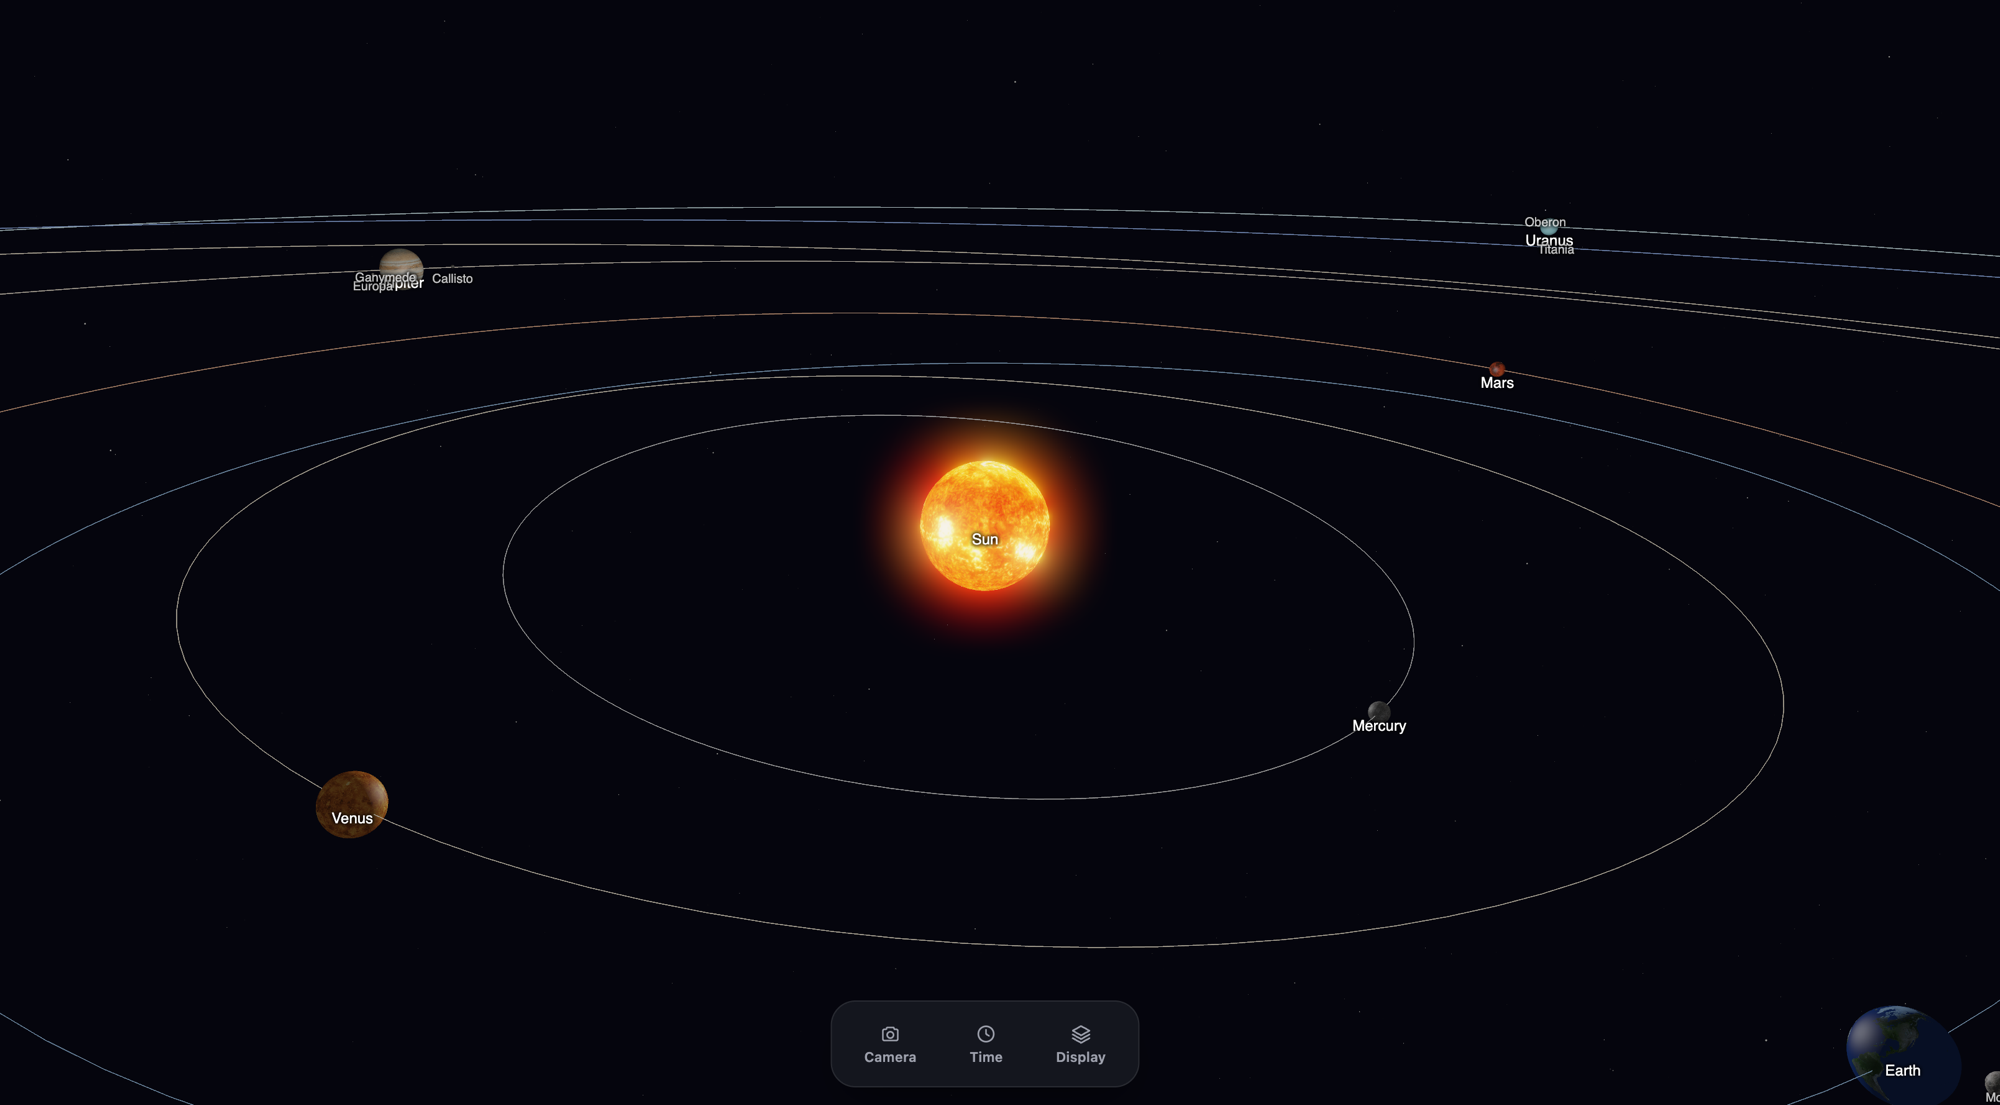
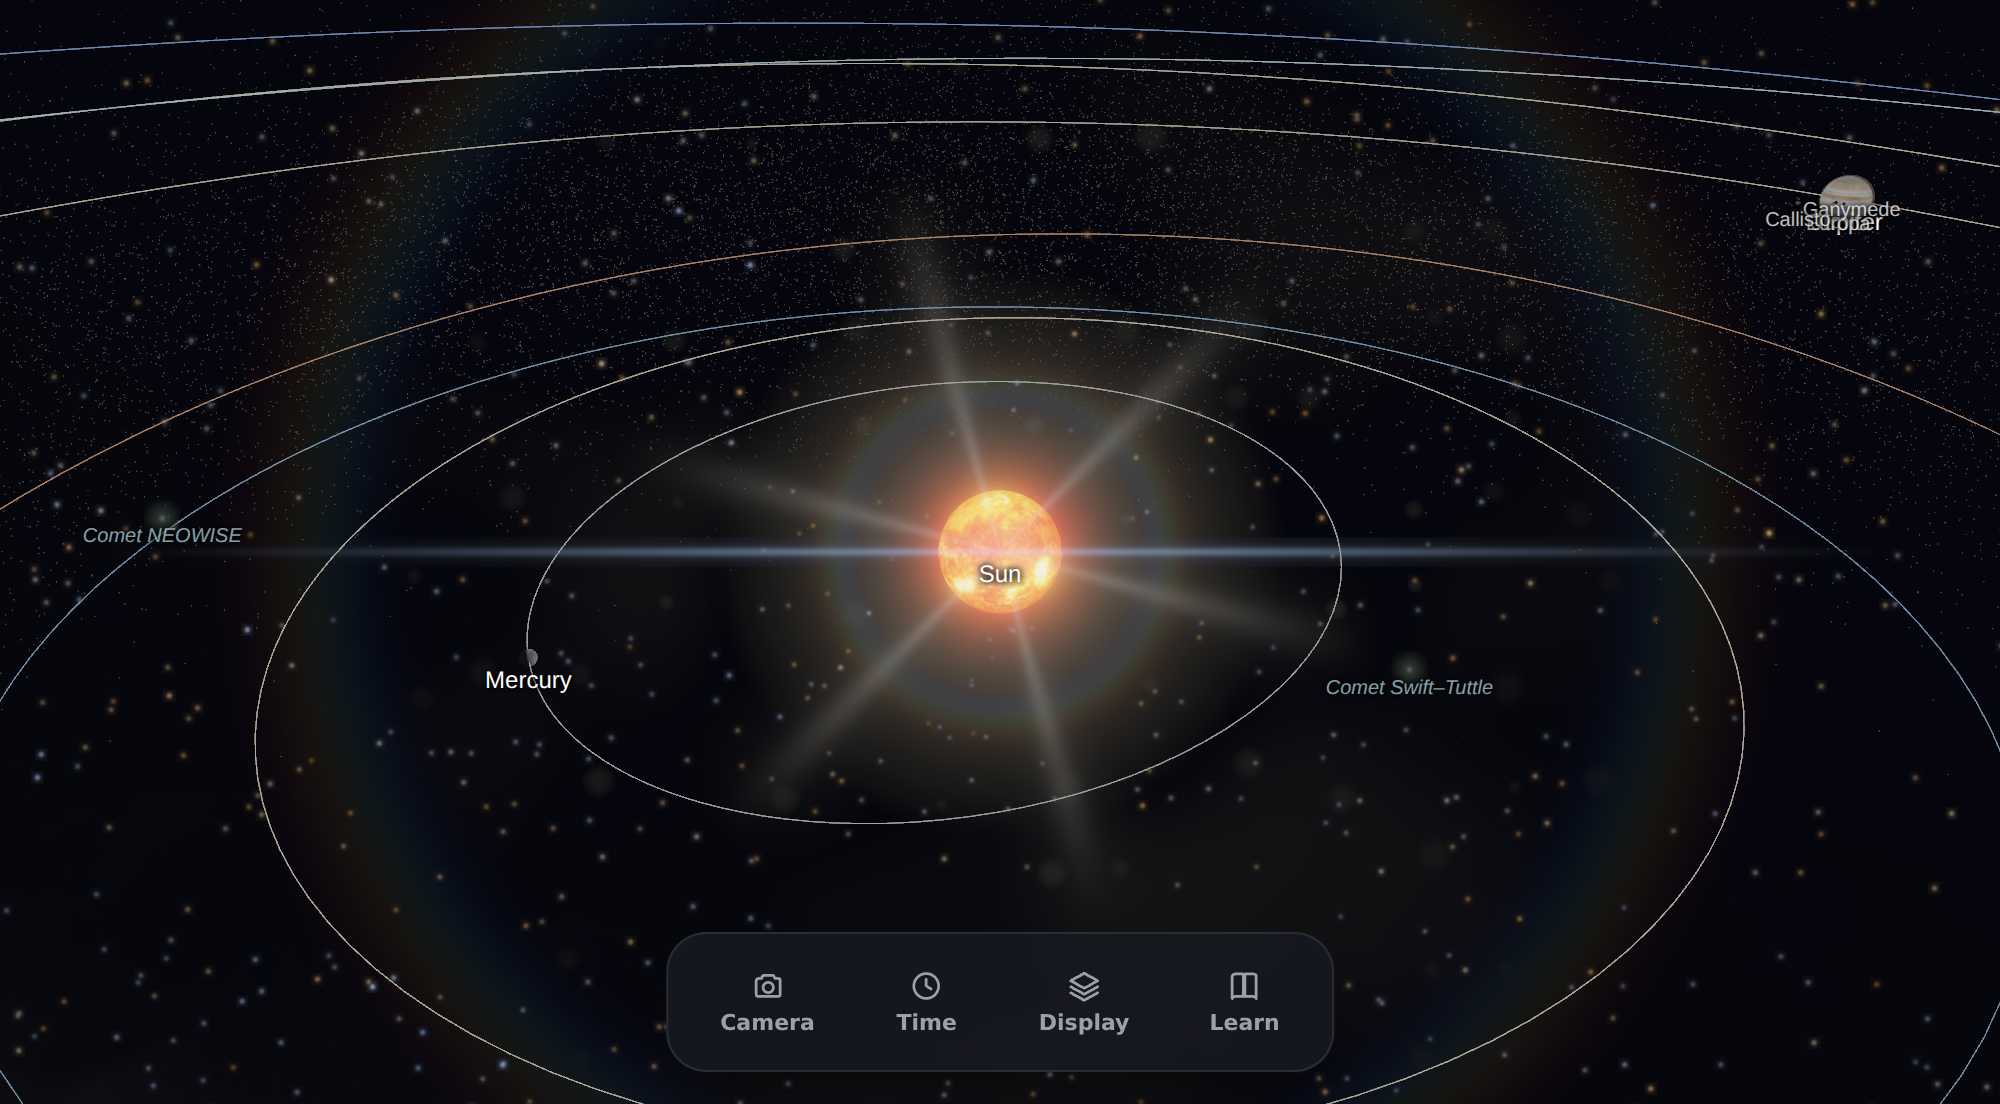
Refresh the README screenshot with the current look
Claude-Session: https://claude.ai/code/session_01FokjSCbT8UR2KkqHQy3gau

diff --git a/CHANGELOG.md b/CHANGELOG.md
@@ -97,7 +97,8 @@ and this project adheres to [Semantic Versioning](https://semver.org/spec/v2.0.0
   them) to fly there and follow them, with labels next to them. Their orbits have their own switch
   ("Comet & dwarf orbits"), separate from the planets'.
 - Double-click or double-tap any body to fly there and follow it.
-- The README lists where every texture, catalog and data set comes from, and under which license.
+- The README lists where every texture, catalog and data set comes from, and under which license,
+  and its screenshot shows the current look.
 - Free flight on touch screens: a thumbstick to fly and strafe, buttons to rise, sink and boost,
   drag to look, pinch to set the speed. Orbit mode zooms with a pinch.
 - The Sun is a glowing ball instead of a flat disc: limb darkening dims its edge and turns it redder

diff --git a/README.md b/README.md
@@ -1,6 +1,6 @@
 # To Boldly Glow
 
-![To Boldly Glow — a WebGPU view of the solar system, showing the Sun, inner planets, and orbit paths for Jupiter's and Uranus's moons](docs/images/screenshot.png)
+![To Boldly Glow — a WebGPU view of the solar system: the Sun with its lens flare, the inner planets' orbits, Jupiter and its moons, two comets and the real star field in its colors](docs/images/screenshot.png)
 
 To Boldly Glow is a free, open-source, browser-based planetarium and solar-system visualizer. It
 renders the Sun, all 8 planets, and 9 major moons in 3D using real orbital mechanics (VSOP87
